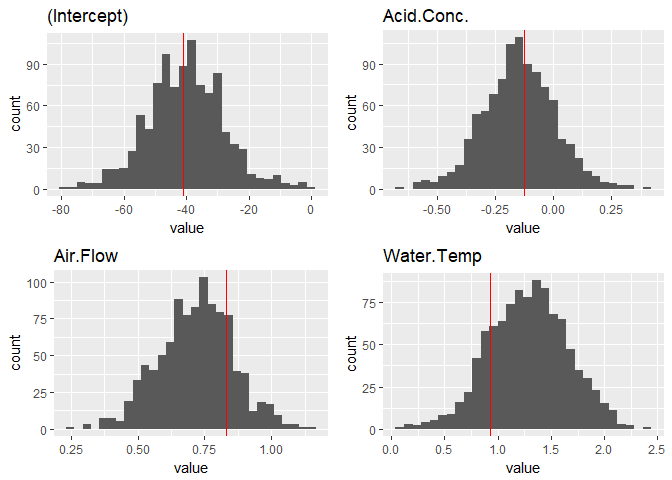
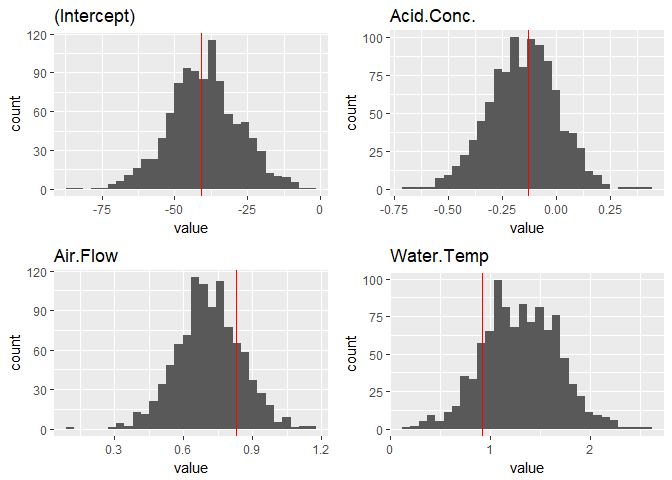
added index

diff --git a/README.html b/README.html
@@ -137,7 +137,7 @@ $(document).ready(function () {
 <ol style="list-style-type: decimal">
 <li><a href="#a-few-ideas-for-this-repository">Ideas</a></li>
 <li><a href="#setting-up-travis-ci-unit-testing-and-codecov">Travis CI, unit testing, and Codecov</a></li>
-<li><a href="#a-light-library-for-bootstrapping">A light library for bootstrapping</a></li>
+<li><a href="##a-light-library-for-bootstrapping">A light library for bootstrapping</a></li>
 <li><a href="#a-case-study-ucla-admittance">Case study: UCLA admittance</a></li>
 <li><a href="#bootstrapping-residuals-robust-regression-with-rcpp">Robust bootstrap regression with Rcpp</a></li>
 <li><a href="#case-study-stackloss">Case study: stackloss</a></li>
@@ -280,7 +280,7 @@ system.time({
   b_resamples &lt;- bootstrap(data, times)
 })</code></pre>
 <pre><code>##    user  system elapsed 
-##    0.03    0.00    0.03</code></pre>
+##    0.02    0.00    0.02</code></pre>
 <p>Evidently, the new object doesn’t grow in size proportionally to the number of resamples, since only indices are being stored. For our 1000 resamples, the growth factor in size for the bootsrapped dataset is</p>
 <pre class="r"><code>as.numeric(object.size(b_resamples) / object.size(data))</code></pre>
 <pre><code>## [1] 163.274</code></pre>
@@ -291,7 +291,7 @@ b_models &lt;- bootstrap_map(b_resamples,
 )
 })</code></pre>
 <pre><code>##    user  system elapsed 
-##    4.39    0.06    4.45</code></pre>
+##    4.20    0.02    4.24</code></pre>
 <p>Super fast, at least for this toy example. Let’s now comparr the coefficients of the single model and the bootstrapped one. We can use <code>purrr::map</code> and <code>purrr::reduce</code> to collect the bootstraps estimates.</p>
 <pre class="r"><code>b_coefs &lt;- b_models %&gt;% 
   map(~coefficients(.x)) %&gt;% 
@@ -460,12 +460,12 @@ bmod &lt;- bootstrap_rlm(X, y, n_bootstraps)
 names(b_coefs) &lt;- names(mod$coefficients)
 head(b_coefs)</code></pre>
 <pre><code>##   (Intercept)  Air.Flow Water.Temp  Acid.Conc.
-## 1   -39.99730 0.8247604  1.4404729 -0.28103618
-## 2   -28.14672 0.6227701  2.0578232 -0.39736530
-## 3   -20.95254 0.8987623  1.0829062 -0.44187797
-## 4   -45.20598 0.7734870  0.8250585 -0.02500840
-## 5   -39.39274 0.7037804  1.2961675 -0.14372254
-## 6   -47.12738 0.6495056  1.4774469 -0.08120211</code></pre>
+## 1   -51.75230 0.5915101   1.774675 -0.04907255
+## 2   -62.98293 0.7781718   1.167115  0.10105416
+## 3   -37.53804 0.6955403   1.299098 -0.17379812
+## 4   -66.52950 0.7701869   1.196422  0.15486187
+## 5   -67.86527 0.7117448   1.420694  0.14018912
+## 6   -38.70231 0.6708130   1.659460 -0.20101446</code></pre>
 <p>Let’s now compare results. We show a histogram of our resamples and the <code>rlm</code>’s estimates with red lines.</p>
 <pre class="r"><code>plots &lt;- b_coefs %&gt;% 
   as.data.frame() %&gt;% 
@@ -476,7 +476,7 @@ head(b_coefs)</code></pre>
     geom_vline(xintercept = mod$coefficients[.$coef[1]], colour = &quot;red&quot;) +
     ggtitle(.$coef[1])) 
 marrangeGrob(plots, 2, 2, top = NULL)</code></pre>
[2 lines of base64/hex data omitted]
 <pre class="r"><code>b_estimates &lt;- b_coefs %&gt;%
   colMeans()
 b_sd &lt;- b_coefs %&gt;% 
@@ -490,10 +490,10 @@ data_frame(
 <pre><code>## # A tibble: 4 x 4
 ##   `MASS rlm coefs` `bootstrap coefs` `MASS rlm sd.` `bootstrap sd`
 ##              &lt;dbl&gt;             &lt;dbl&gt;          &lt;dbl&gt;          &lt;dbl&gt;
-## 1      -41.0265311       -40.1647615      9.8073472     12.2524227
-## 2        0.8293739         0.7175581      0.1111803      0.1378854
-## 3        0.9261082         1.2841564      0.3034081      0.3695472
-## 4       -0.1278492        -0.1479626      0.1288526      0.1553305</code></pre>
+## 1      -41.0265311       -39.8686725      9.8073472     12.1195915
+## 2        0.8293739         0.7107926      0.1111803      0.1390344
+## 3        0.9261082         1.3035074      0.3034081      0.3749820
+## 4       -0.1278492        -0.1514588      0.1288526      0.1572396</code></pre>
 <p>The results are indeed pretty similar! We get somewhat wider standard errors, but in the same order of magnitude.</p>
 <p><a href="#index">Back to index</a></p>
 </div>

diff --git a/README.md b/README.md
@@ -17,13 +17,13 @@ I prepared this special repository instead of a cover letter; I hope you like it
 
 ## Index
 
-1. [Ideas][A few ideas for this repository...]
-2. [Travis CI, unit testing, and Codecov][Setting-up Travis CI, unit testing, and Codecov]
-3. [A light library for bootstrapping][A light library for bootstrapping]
-4. [Case study: UCLA admittance][A case study: UCLA admittance]
-5. [Robust bootstrap regression with Rcpp][Bootstrapping residuals: robust regression with Rcpp]
-6. [Case study: stackloss][Case study: stackloss]
-7. [Test files][Test files]
+1. [Ideas](#a-few-ideas-for-this-repository)
+2. [Travis CI, unit testing, and Codecov](#setting-up-travis-ci-unit-testing-and-codecov)
+3. [A light library for bootstrapping](##a-light-library-for-bootstrapping)
+4. [Case study: UCLA admittance](#a-case-study-ucla-admittance)
+5. [Robust bootstrap regression with Rcpp](#bootstrapping-residuals-robust-regression-with-rcpp)
+6. [Case study: stackloss](#case-study-stackloss)
+7. [Test files](#test-files)
 
 -----
 
@@ -50,7 +50,7 @@ devtools::install_github('mauriciogtec/YetAnotherRStudioApplication')
 
 Let's get started!
 
-[Back to index][Index]
+[Back to index](#index)
 
 ### Setting-up Travis CI, unit testing, and Codecov
 
@@ -68,7 +68,7 @@ My precious:
 ![](Images/uphere.jpg)
 
 
-[Back to index][Index]
+[Back to index](#index)
 
 ###  A light library for bootstrapping
 
@@ -140,7 +140,7 @@ bootstrap_map <- function(x, .f, times = 50L) {
 }
 ```
 
-[Back to index][Index]
+[Back to index](#index)
 
 ### A case study: UCLA admittance
 
@@ -227,7 +227,7 @@ system.time({
 
 ```
 ##    user  system elapsed 
-##    0.03    0.00    0.03
+##    0.02    0.00    0.02
 ```
 
 Evidently, the new object doesn't grow in size proportionally to the number of resamples, since only indices are being stored. For our 1000 resamples, the growth factor in size for the bootsrapped dataset is
@@ -254,7 +254,7 @@ b_models <- bootstrap_map(b_resamples,
 
 ```
 ##    user  system elapsed 
-##    4.39    0.06    4.45
+##    4.20    0.02    4.24
 ```
  
 Super fast, at least for this toy example. Let's now comparr the coefficients of the single model and the bootstrapped one. We can use `purrr::map` and `purrr::reduce` to collect the bootstraps estimates.
@@ -349,7 +349,7 @@ sprintf("The new prediction is %0.2f%%", 100*b_acc)
 
 We see a modest but positive improvement over the original model.
 
-[Back to index][Index]
+[Back to index](#index)
 
 ## Bootstrapping residuals: robust regression with Rcpp
 
@@ -420,7 +420,7 @@ Rcpp::List bootstrap_rlm(
 ```
 
 
-[Back to index][Index]
+[Back to index](#index)
 
 ### Case study: stackloss
 
@@ -507,12 +507,12 @@ head(b_coefs)
 
 ```
 ##   (Intercept)  Air.Flow Water.Temp  Acid.Conc.
-## 1   -39.99730 0.8247604  1.4404729 -0.28103618
-## 2   -28.14672 0.6227701  2.0578232 -0.39736530
-## 3   -20.95254 0.8987623  1.0829062 -0.44187797
-## 4   -45.20598 0.7734870  0.8250585 -0.02500840
-## 5   -39.39274 0.7037804  1.2961675 -0.14372254
-## 6   -47.12738 0.6495056  1.4774469 -0.08120211
+## 1   -51.75230 0.5915101   1.774675 -0.04907255
+## 2   -62.98293 0.7781718   1.167115  0.10105416
+## 3   -37.53804 0.6955403   1.299098 -0.17379812
+## 4   -66.52950 0.7701869   1.196422  0.15486187
+## 5   -67.86527 0.7117448   1.420694  0.14018912
+## 6   -38.70231 0.6708130   1.659460 -0.20101446
 ```
 
 Let's now compare results. We show a histogram of our resamples and the `rlm`'s estimates with red lines.
@@ -551,15 +551,15 @@ data_frame(
 ## # A tibble: 4 x 4
 ##   `MASS rlm coefs` `bootstrap coefs` `MASS rlm sd.` `bootstrap sd`
 ##              <dbl>             <dbl>          <dbl>          <dbl>
-## 1      -41.0265311       -40.1647615      9.8073472     12.2524227
-## 2        0.8293739         0.7175581      0.1111803      0.1378854
-## 3        0.9261082         1.2841564      0.3034081      0.3695472
-## 4       -0.1278492        -0.1479626      0.1288526      0.1553305
+## 1      -41.0265311       -39.8686725      9.8073472     12.1195915
+## 2        0.8293739         0.7107926      0.1111803      0.1390344
+## 3        0.9261082         1.3035074      0.3034081      0.3749820
+## 4       -0.1278492        -0.1514588      0.1288526      0.1572396
 ```
 
 The results are indeed pretty similar! We get somewhat wider standard errors, but in the same order of magnitude. 
 
-[Back to index][Index]
+[Back to index](#index)
 
 ### Test files
 
@@ -583,4 +583,4 @@ test_that("rlm", {
 ```
 
 
-[Back to index][Index]
+[Back to index](#index)
